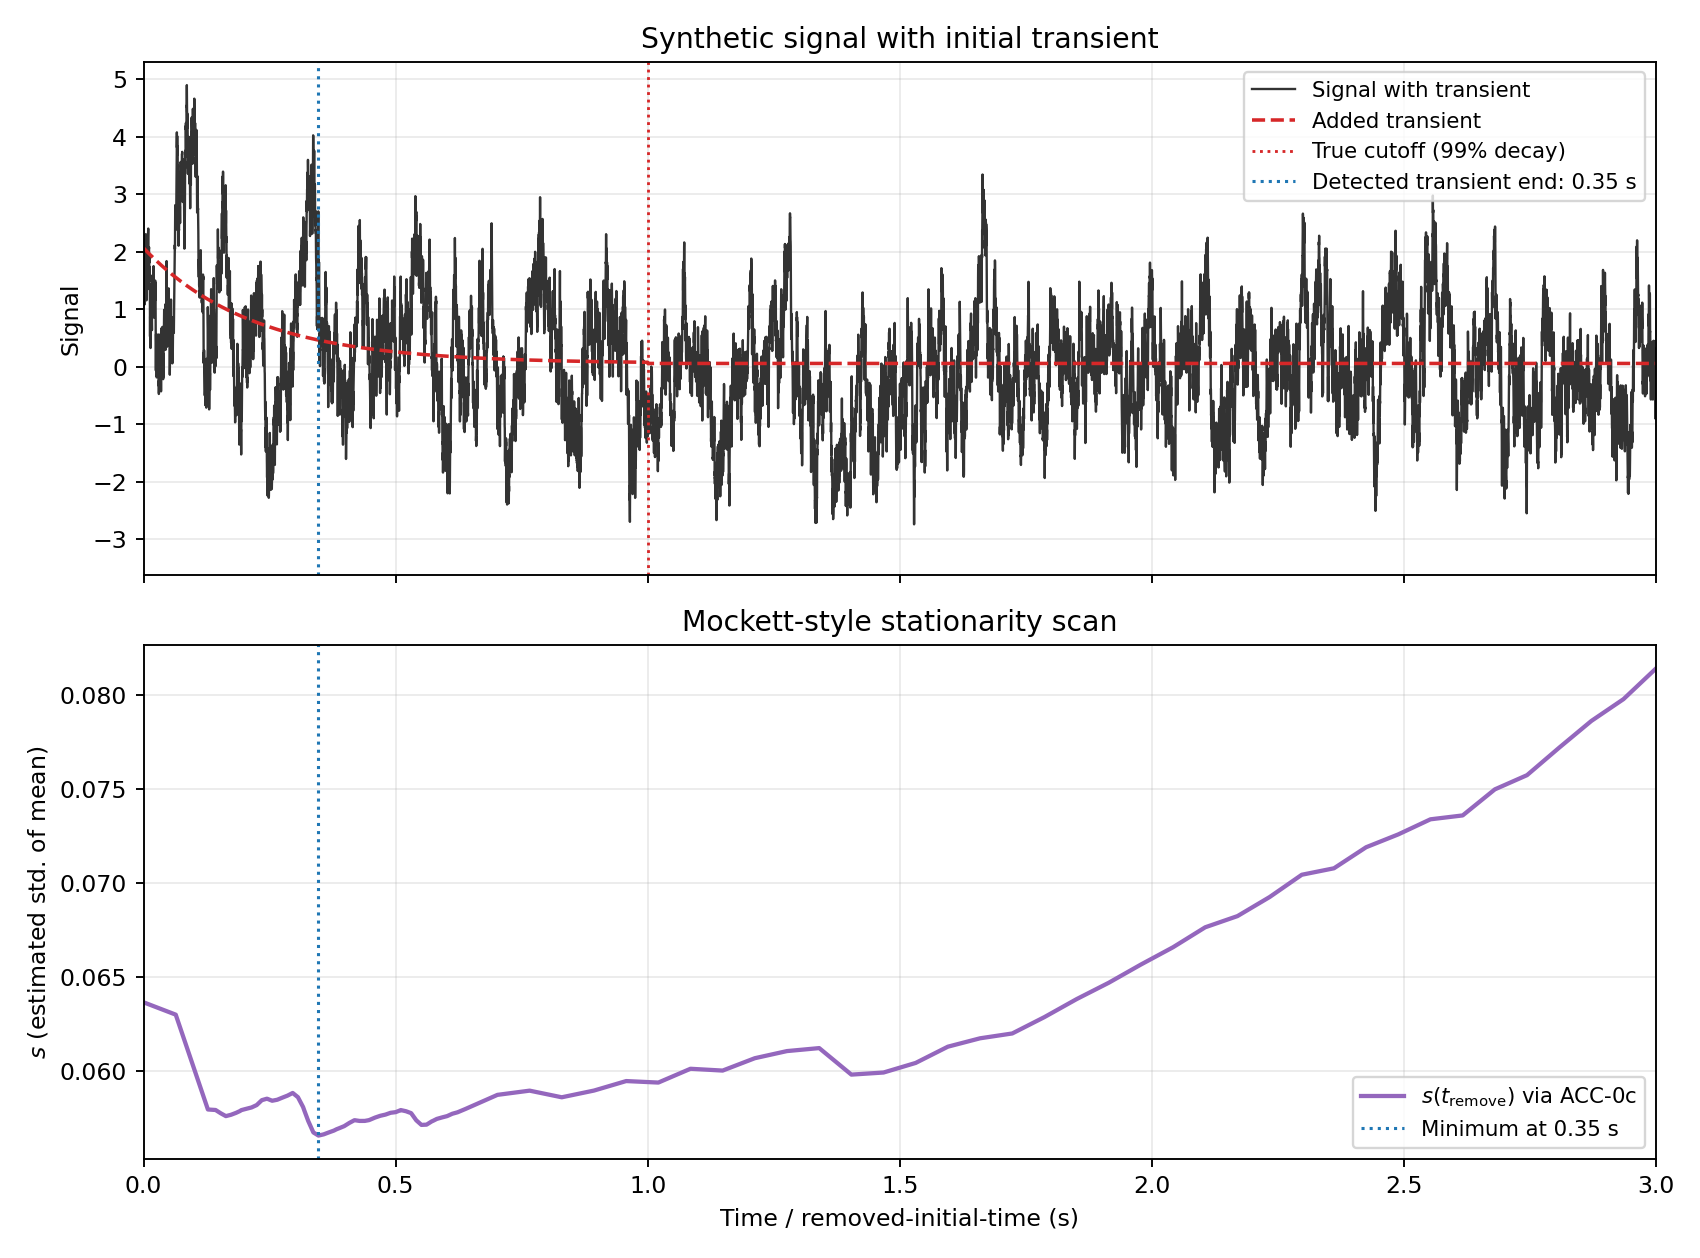
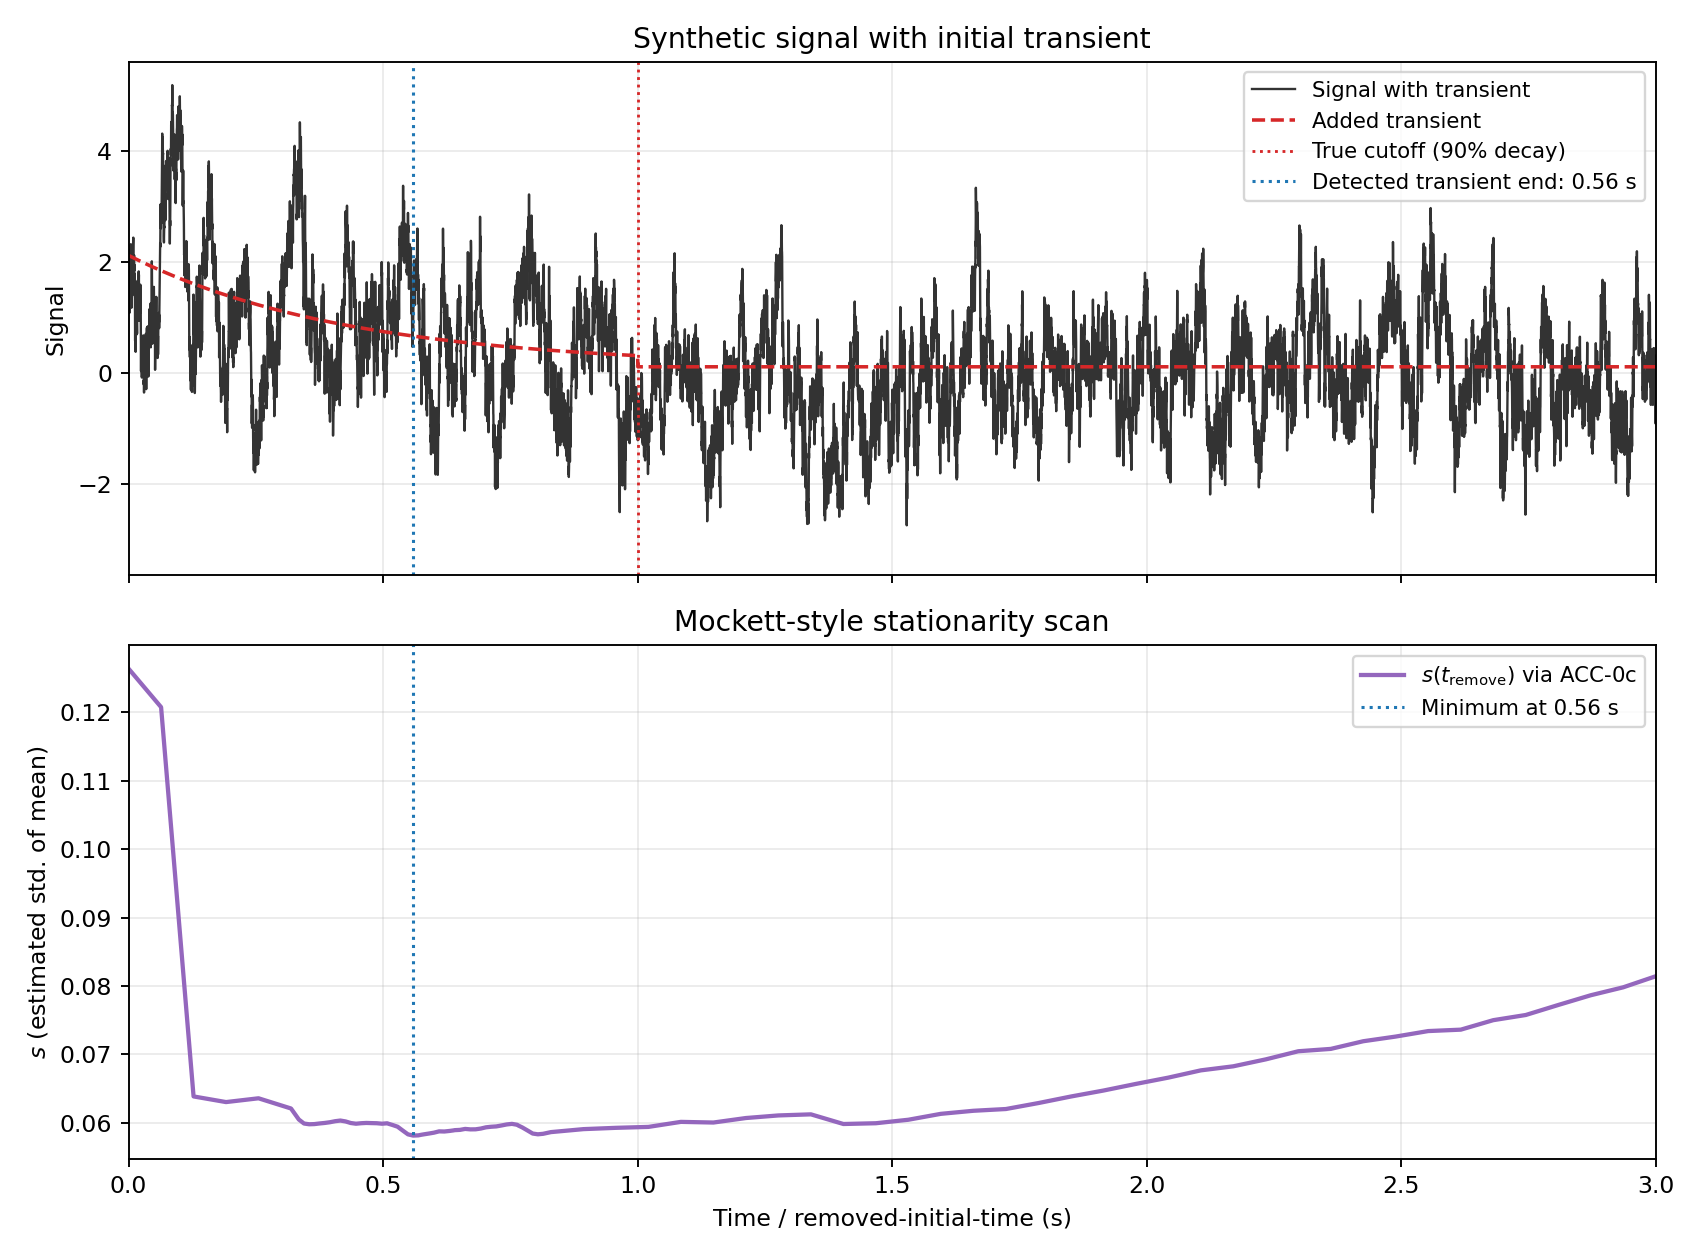
updates

diff --git a/docs/index.html b/docs/index.html
@@ -141,12 +141,12 @@ window.MathJax = {
 <img src="assets/figures/figure_15_realworld_mae_vs_time.png" alt="Figure 15 — Piecewise-spectrum MAE vs time">
 <p>Code: <a href="../workflows/figure_15_realworld_mae_vs_time.py"><code>workflows/figure_15_realworld_mae_vs_time.py</code></a></p>
 <h2>Stationarity Detection (Mockett-Style)</h2>
-<p>To identify initial non-stationarity, we remove increasing amounts of early-time data and recompute uncertainty \(s\) each time. For this synthetic test, the baseline signal uses a piecewise spectrum (flat to 10 Hz, then \(f^{-5/3}\)), with an added exponential transient of amplitude \(2\sigma\) from \(t=0\). The transient is hard-clipped to zero once it decays by 99% of its initial value (at \(t=1\) s).</p>
+<p>To identify initial non-stationarity, we remove increasing amounts of early-time data and recompute uncertainty \(s\) each time. For this synthetic test, the baseline signal uses a piecewise spectrum (flat to 10 Hz, then \(f^{-5/3}\)), with an added exponential transient of amplitude \(2\sigma\) from \(t=0\). The transient is hard-clipped to zero once it decays by 90% of its initial value (at \(t=1\) s).</p>
 <p>Using ACC-0c to estimate uncertainty in the mean for each trimmed signal, the curve \(s(t_{\mathrm{remove}})\) shows a minimum near the end of the transient. The minimum is used as the detected transient-removal time.</p>
 <h3>Figure 16 — Mockett-style stationarity scan with ACC-0c</h3>
 <img src="assets/figures/figure_16_stationarity_mockett.png" alt="Figure 16 — Stationarity scan">
 <p>Code: <a href="../workflows/figure_16_stationarity_mockett.py"><code>workflows/figure_16_stationarity_mockett.py</code></a></p>
-<h3>Figure 17 — Distribution of detected stabilization times (1σ, 2σ, 3σ transients)</h3>
+<h3>Figure 17 — Two-panel distributions: detected stabilization time and mean bias (1σ, 2σ, 3σ transients)</h3>
 <img src="assets/figures/figure_17_stationarity_distribution.png" alt="Figure 17 — Stabilization-time distribution">
 <p>Code: <a href="../workflows/figure_17_stationarity_distribution.py"><code>workflows/figure_17_stationarity_distribution.py</code></a></p>
 <h2>Practical Takeaways</h2>

diff --git a/workflows/figure_17_stationarity_distribution.py b/workflows/figure_17_stationarity_distribution.py
@@ -51,9 +51,9 @@ def _build_signal(seed, amp_std):
         dt=DT,
         amplitude_std=float(amp_std),
         cutoff_time=TRANSIENT_CUTOFF_TIME,
-        cutoff_fraction=0.01,
+        cutoff_fraction=0.10,
     )
-    return x_w_tr
+    return x, x_w_tr
 
 
 def _smooth_density_line(samples, x_grid, bw_bins=2.0):
@@ -69,14 +69,17 @@ def _smooth_density_line(samples, x_grid, bw_bins=2.0):
 
 
 def main():
-    fig, ax = plt.subplots(figsize=(9.2, 5.4))
-    bins = np.linspace(0.0, 2.2, 140)
+    fig, axs = plt.subplots(2, 1, figsize=(9.4, 8.4), sharex=False)
+    ax_top, ax_bot = axs
+    bins_t = np.linspace(0.0, 2.2, 140)
+    bins_b = np.linspace(-0.06, 0.26, 150)
     colors = {1.0: "tab:blue", 2.0: "tab:purple", 3.0: "tab:green"}
 
     for amp in AMP_LEVELS:
         t_star = []
+        mean_bias = []
         for i in range(N_SIGNALS):
-            x = _build_signal(BASE_SEED + 10000 * int(amp) + i, amp_std=amp)
+            x_base, x = _build_signal(BASE_SEED + 10000 * int(amp) + i, amp_std=amp)
             res = estimate_stabilization_time_mockett(
                 x,
                 dt=DT,
@@ -85,18 +88,29 @@ def main():
             )
             if np.isfinite(res.t_star):
                 t_star.append(float(res.t_star))
+            mean_bias.append(float(np.mean(x) - np.mean(x_base)))
         t_star = np.asarray(t_star, dtype=float)
+        mean_bias = np.asarray(mean_bias, dtype=float)
         if t_star.size == 0:
             continue
-        xc, yc = _smooth_density_line(t_star, bins, bw_bins=2.0)
-        ax.plot(xc, yc, color=colors[amp], lw=2.0, label=f"{int(amp)}$\\sigma$ transient")
+        xc, yc = _smooth_density_line(t_star, bins_t, bw_bins=2.0)
+        ax_top.plot(xc, yc, color=colors[amp], lw=2.0, label=f"{int(amp)}$\\sigma$ transient")
+        xb, yb = _smooth_density_line(mean_bias, bins_b, bw_bins=2.0)
+        ax_bot.plot(xb, yb, color=colors[amp], lw=2.0, label=f"{int(amp)}$\\sigma$ transient")
 
-    ax.axvline(TRANSIENT_CUTOFF_TIME, color="tab:red", ls="--", lw=1.6, label="True cutoff (1.0 s)")
-    ax.set_xlabel("Predicted stabilization time (s)")
-    ax.set_ylabel("Density")
-    ax.set_title("Detected stabilization-time distributions (ACC-0c, Mockett scan)")
-    ax.grid(True, alpha=0.25)
-    ax.legend(fontsize=9)
+    ax_top.axvline(TRANSIENT_CUTOFF_TIME, color="tab:red", ls="--", lw=1.6, label="True cutoff (1.0 s)")
+    ax_top.set_xlabel("Predicted stabilization time (s)")
+    ax_top.set_ylabel("Density")
+    ax_top.set_title("Detected stabilization-time distributions (ACC-0c, Mockett scan)")
+    ax_top.grid(True, alpha=0.25)
+    ax_top.legend(fontsize=9)
+
+    ax_bot.axvline(0.0, color="0.35", ls="--", lw=1.2)
+    ax_bot.set_xlabel("Added bias in sample mean")
+    ax_bot.set_ylabel("Density")
+    ax_bot.set_title("Distribution of transient-induced mean bias")
+    ax_bot.grid(True, alpha=0.25)
+    ax_bot.legend(fontsize=9)
 
     FIG_DIR.mkdir(parents=True, exist_ok=True)
     out = FIG_DIR / "figure_17_stationarity_distribution.png"

diff --git a/workflows/figure_12_realworld_methods.py b/workflows/figure_12_realworld_methods.py
@@ -25,8 +25,8 @@ HI_FREQ_SLOPE = -5.0 / 3.0
 T_SIGNAL = 300.0
 T_GENERATE = 3.0 * T_SIGNAL
 TIME_POINTS = np.logspace(np.log10(0.2), np.log10(100.0), 20)
-N_TARGET_SIGNALS = 80
-N_METHOD_SIGNALS = 12
+N_TARGET_SIGNALS = 800
+N_METHOD_SIGNALS = 120
 N_WINDOWS_TARGET = 4
 N_WINDOWS_METHOD = 1
 BASE_SEED = 260219
@@ -54,7 +54,6 @@ def _mc_target(signals, time_points, seed):
     n_long = len(signals[0])
     rng = np.random.default_rng(seed)
     y = []
-    y_std = []
     for t in time_points:
         n_eval = int(round(float(t) / DT))
         max_start = max(1, n_long - n_eval)
@@ -70,8 +69,7 @@ def _mc_target(signals, time_points, seed):
         sm = float(np.std(means, ddof=1))
         ss = float(np.mean(sigmas))
         y.append(sm / max(ss, 1e-15))
-        y_std.append(float(np.std(np.abs(means), ddof=1) / max(ss, 1e-15)))
-    return np.asarray(y), np.asarray(y_std)
+    return np.asarray(y)
 
 
 def _method_curves(signals, time_points, seed):
@@ -101,19 +99,11 @@ def _method_curves(signals, time_points, seed):
 def main():
     target = [_build_signal(BASE_SEED + 10000 + i) for i in range(N_TARGET_SIGNALS)]
     method = [_build_signal(BASE_SEED + 20000 + i) for i in range(N_METHOD_SIGNALS)]
-    y_mc, y_mc_std = _mc_target(target, TIME_POINTS, BASE_SEED + 300000)
+    y_mc = _mc_target(target, TIME_POINTS, BASE_SEED + 300000)
     preds = _method_curves(method, TIME_POINTS, BASE_SEED + 400000)
 
     fig, ax = plt.subplots(figsize=(9.8, 6.0))
     ax.loglog(TIME_POINTS, y_mc, "k-", lw=2.2, label="MC target")
-    ax.fill_between(
-        TIME_POINTS,
-        np.clip(y_mc - y_mc_std, 1e-12, np.inf),
-        np.clip(y_mc + y_mc_std, 1e-12, np.inf),
-        color="k",
-        alpha=0.1,
-        linewidth=0,
-    )
     for k in KEEP_METHODS:
         c, m, ls, _ = HYBRID_METHOD_STYLE[k]
         ax.loglog(TIME_POINTS, preds[k], color=c, marker=m, ls=ls, lw=1.8, ms=4.2, label=k)

diff --git a/workflows/figure_16_stationarity_mockett.py b/workflows/figure_16_stationarity_mockett.py
@@ -53,7 +53,7 @@ def _build_signal():
         dt=DT,
         amplitude_std=TRANSIENT_AMP_STD,
         cutoff_time=TRANSIENT_CUTOFF_TIME,
-        cutoff_fraction=0.01,  # hard cutoff at 99% decay
+        cutoff_fraction=0.10,  # hard cutoff at 90% decay
     )
     return t, x_w_tr, transient
 
@@ -74,7 +74,7 @@ def main():
     ax = axs[0]
     ax.plot(t, x, color="0.20", lw=1.0, label="Signal with transient")
     ax.plot(t, transient + np.mean(x), color="tab:red", lw=1.5, ls="--", label="Added transient")
-    ax.axvline(TRANSIENT_CUTOFF_TIME, color="tab:red", ls=":", lw=1.2, label="True cutoff (99% decay)")
+    ax.axvline(TRANSIENT_CUTOFF_TIME, color="tab:red", ls=":", lw=1.2, label="True cutoff (90% decay)")
     if np.isfinite(t_star):
         ax.axvline(t_star, color="tab:blue", ls=":", lw=1.3, label=f"Detected transient end: {t_star:.2f} s")
     ax.set_xlim(0.0, x_max)

diff --git a/workflows/figure_15_realworld_mae_vs_time.py b/workflows/figure_15_realworld_mae_vs_time.py
@@ -25,8 +25,8 @@ HI_FREQ_SLOPE = -5.0 / 3.0
 T_SIGNAL = 300.0
 T_GENERATE = 3.0 * T_SIGNAL
 TIME_POINTS = np.logspace(np.log10(0.2), np.log10(100.0), 20)
-N_TARGET_SIGNALS = 80
-N_METHOD_SIGNALS = 12
+N_TARGET_SIGNALS = 800
+N_METHOD_SIGNALS = 120
 N_WINDOWS_TARGET = 4
 N_WINDOWS_METHOD = 1
 BASE_SEED = 260219

diff --git a/docs/index.md b/docs/index.md
@@ -160,7 +160,7 @@ Code: [`workflows/figure_12_realworld_methods.py`](../workflows/figure_12_realwo
 Code: [`workflows/figure_15_realworld_mae_vs_time.py`](../workflows/figure_15_realworld_mae_vs_time.py)
 
 ## Stationarity Detection (Mockett-Style)
-To identify initial non-stationarity, we remove increasing amounts of early-time data and recompute uncertainty \(s\) each time. For this synthetic test, the baseline signal uses a piecewise spectrum (flat to 10 Hz, then \(f^{-5/3}\)), with an added exponential transient of amplitude \(2\sigma\) from \(t=0\). The transient is hard-clipped to zero once it decays by 99% of its initial value (at \(t=1\) s).
+To identify initial non-stationarity, we remove increasing amounts of early-time data and recompute uncertainty \(s\) each time. For this synthetic test, the baseline signal uses a piecewise spectrum (flat to 10 Hz, then \(f^{-5/3}\)), with an added exponential transient of amplitude \(2\sigma\) from \(t=0\). The transient is hard-clipped to zero once it decays by 90% of its initial value (at \(t=1\) s).
 
 Using ACC-0c to estimate uncertainty in the mean for each trimmed signal, the curve \(s(t_{\mathrm{remove}})\) shows a minimum near the end of the transient. The minimum is used as the detected transient-removal time.
 
@@ -168,7 +168,7 @@ Using ACC-0c to estimate uncertainty in the mean for each trimmed signal, the cu
 ![Figure 16 — Stationarity scan](assets/figures/figure_16_stationarity_mockett.png)
 Code: [`workflows/figure_16_stationarity_mockett.py`](../workflows/figure_16_stationarity_mockett.py)
 
-### Figure 17 — Distribution of detected stabilization times (1σ, 2σ, 3σ transients)
+### Figure 17 — Two-panel distributions: detected stabilization time and mean bias (1σ, 2σ, 3σ transients)
 ![Figure 17 — Stabilization-time distribution](assets/figures/figure_17_stationarity_distribution.png)
 Code: [`workflows/figure_17_stationarity_distribution.py`](../workflows/figure_17_stationarity_distribution.py)
 

diff --git a/GITHUB_PAGES.md b/GITHUB_PAGES.md
@@ -1,0 +1,28 @@
+# Project: Time-Series-Uncertainty
+
+This repository hosts the code and documentation for uncertainty estimation in the mean of correlated signals.
+
+## GitHub Pages
+
+The documentation is published using GitHub Pages from the `docs/` directory on the `main` branch.
+
+- Main site: https://paulnorman.github.io/Time-Series-Uncertainty/
+- Custom domain: https://paulnorman.cc/ (configure in repository settings)
+
+## Publishing setup
+- The static site is built and committed to the `docs/` folder.
+- A `.nojekyll` file is present to disable Jekyll processing.
+- To update the site, push changes to the `main` branch.
+
+## Custom domain
+To use a custom domain (e.g., `paulnorman.cc`):
+1. Add a file named `CNAME` in the `docs/` directory with your domain name:
+   ```
+   paulnorman.cc
+   ```
+2. Configure your DNS to point to GitHub Pages IPs (see GitHub Pages docs).
+3. Enable "Enforce HTTPS" in the repository settings after DNS propagates.
+
+## Troubleshooting
+- If HTTPS is unavailable, check DNS configuration and wait for propagation.
+- For more, see: https://docs.github.com/en/pages/configuring-a-custom-domain-for-your-github-pages-site
